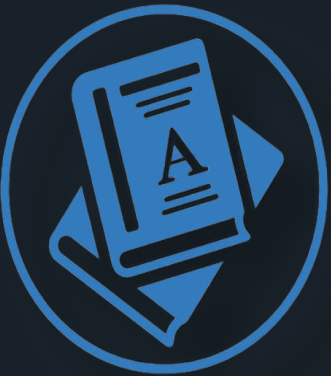
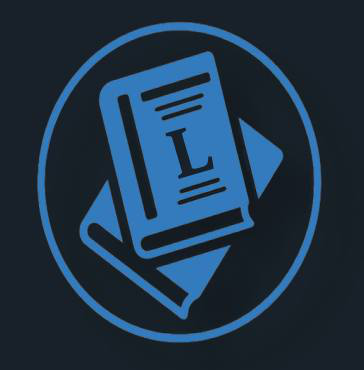
Change image on StartingPage

diff --git a/assets/ui/StartingPage.qml b/assets/ui/StartingPage.qml
@@ -78,8 +78,8 @@ Rectangle{
     Image {
         id: vocBookAvatar
         source: "qrc:/VocabBook.png"
-        width:40
-        height:40
+        width:55
+        height:55
         anchors.centerIn: parent
         anchors.verticalCenterOffset: -260
         anchors.horizontalCenterOffset: 32
